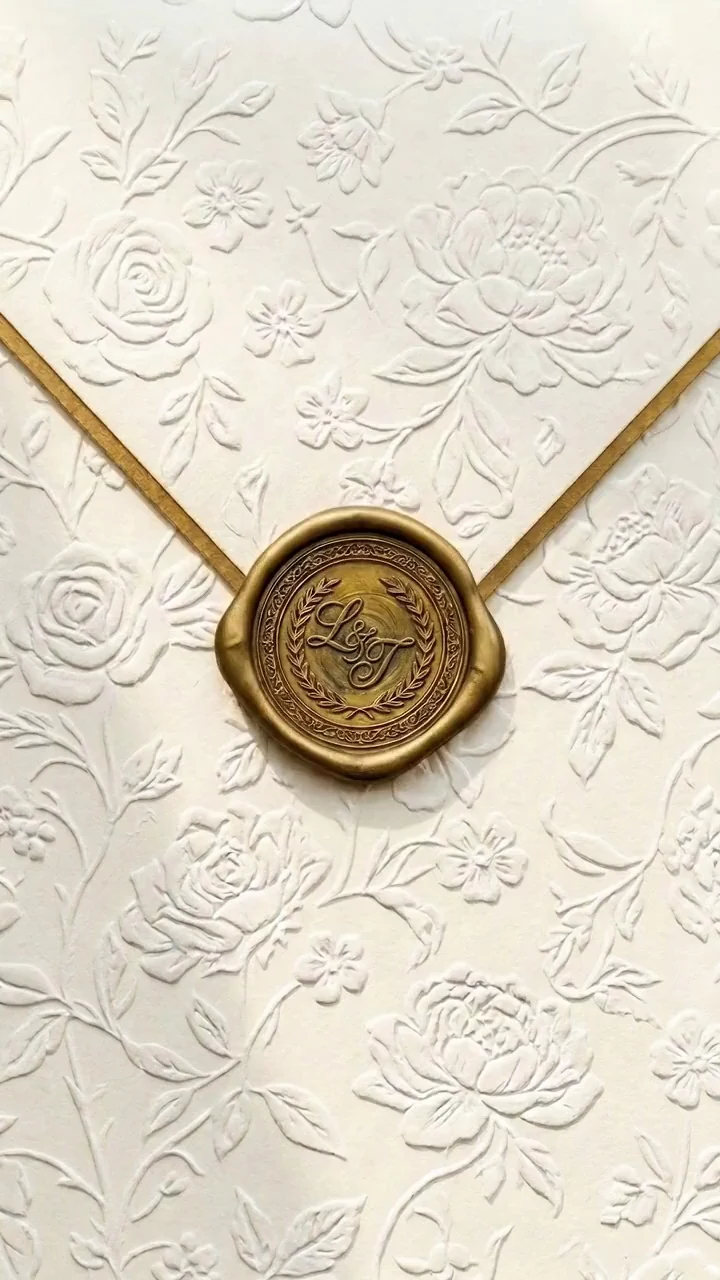
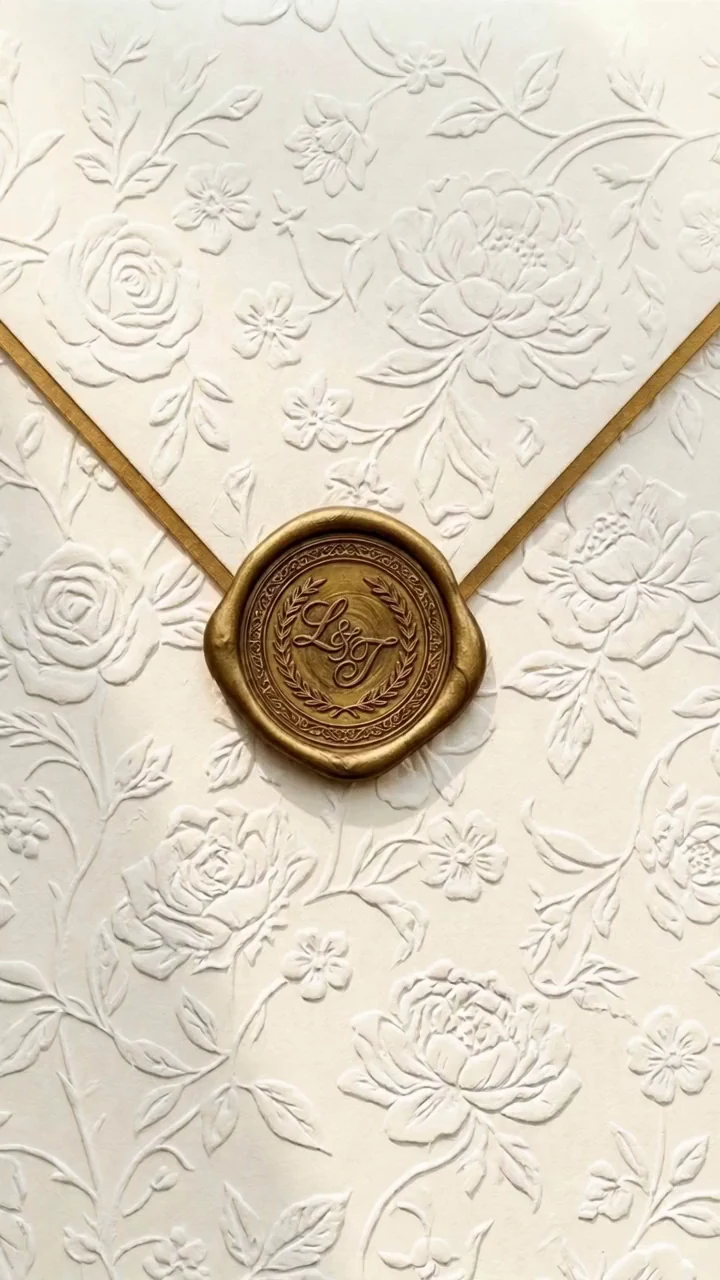
feat: apertura con los colibries de la clienta (Meta AI)

diff --git a/index.html b/index.html
@@ -25,7 +25,7 @@
 <link rel="preconnect" href="https://fonts.googleapis.com">
 <link rel="preconnect" href="https://fonts.gstatic.com" crossorigin>
 <link href="https://fonts.googleapis.com/css2?family=Italiana&family=Cormorant+Garamond:ital,wght@0,500;0,600;0,700;1,500;1,600&family=Great+Vibes&display=swap" rel="stylesheet">
-<link rel="preload" as="image" href="img/apertura-poster.webp?v=2" fetchpriority="high">
+<link rel="preload" as="image" href="img/apertura-poster.webp?v=3" fetchpriority="high">
 <link rel="stylesheet" href="https://cdnjs.cloudflare.com/ajax/libs/leaflet/1.9.4/leaflet.min.css">
 <style>
 /* ── VARIABLES ── */
@@ -858,8 +858,8 @@ img{max-width:100%}
 
 <!-- ═══════════ SOBRE ═══════════ -->
 <div id="envelope-screen" role="button" aria-label="Abrir invitación">
-  <img class="op-poster" id="opPoster" src="img/apertura-poster.webp?v=2" alt="Tyler &amp; Lina · Neiva, Huila · 03·07·2027">
-  <video class="op-video" id="opVideo" muted playsinline preload="auto" poster="img/apertura-poster.webp?v=2" src="https://bsjoelxktbvlavfoozhk.supabase.co/storage/v1/object/public/fotos-clientes/video/boda-tyler-y-lina-rutherford/apertura-colibries.mp4"></video>
+  <img class="op-poster" id="opPoster" src="img/apertura-poster.webp?v=3" alt="Tyler &amp; Lina · Neiva, Huila · 03·07·2027">
+  <video class="op-video" id="opVideo" muted playsinline preload="auto" poster="img/apertura-poster.webp?v=3" src="https://bsjoelxktbvlavfoozhk.supabase.co/storage/v1/object/public/fotos-clientes/video/boda-tyler-y-lina-rutherford/apertura-colibries-v2.mp4"></video>
   <div class="env-tap" id="envTap" data-en="Tap to open">Toca para abrir</div>
 </div>
 <div id="env-flash"></div>
@@ -1346,7 +1346,7 @@ function initEnvelope(){
   var scr=document.getElementById('envelope-screen'),vid=document.getElementById('opVideo'),poster=document.getElementById('opPoster'),
       tap=document.getElementById('envTap'),flash=document.getElementById('env-flash'),
       wrap=document.querySelector('.wrap'),done=false,revealed=false,fallback=null;
-  var REVEAL_AT=6.9; /* segundo en que el video ya quedó en crema */
+  var REVEAL_AT=8.9; /* segundo en que el video ya quedó en crema */
   gsap.fromTo(poster,{scale:1.04},{scale:1,duration:2.4,ease:'power2.out'});
   gsap.from(tap,{opacity:0,y:8,duration:.9,delay:.8,ease:'power2.out'});
 
@@ -1365,9 +1365,9 @@ function initEnvelope(){
     if(p&&p.then){p.then(function(){gsap.to(poster,{opacity:0,duration:.25,delay:.12});}).catch(finish);}
     else gsap.to(poster,{opacity:0,duration:.25,delay:.12});
     var burstOn=false;
-    vid.addEventListener('timeupdate',function(){if(!burstOn&&vid.currentTime>=6.0){burstOn=true;premiumBurst();}if(vid.currentTime>=REVEAL_AT)finish();});
+    vid.addEventListener('timeupdate',function(){if(!burstOn&&vid.currentTime>=8.0){burstOn=true;premiumBurst();}if(vid.currentTime>=REVEAL_AT)finish();});
     vid.addEventListener('ended',finish);
-    fallback=setTimeout(finish,10000);
+    fallback=setTimeout(finish,12500);
   }
   function reveal(){
     if(scr.style.display==='none') return;
